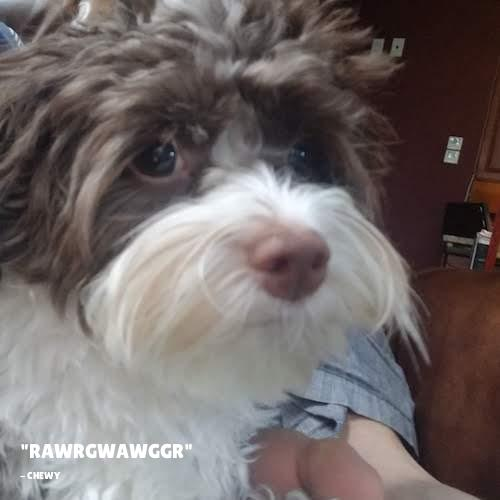
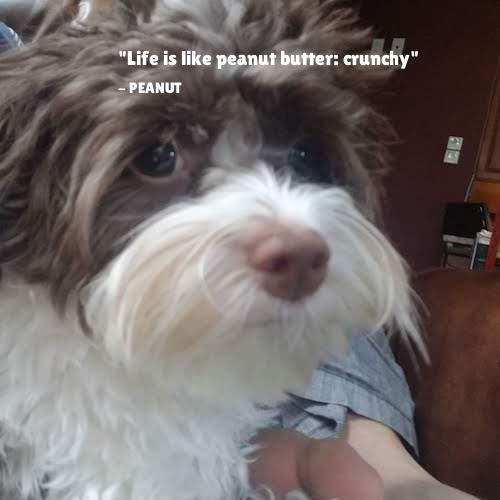
Error handling kind of working

Changed region(s): [[0.24, 0.09, 0.84, 0.21], [0.03, 0.87, 0.39, 0.96]]

diff --git a/src/templates/meme_error.html b/src/templates/meme_error.html
@@ -1,0 +1,12 @@
+<!DOCTYPE html>
+<html lang="en">
+<head>
+    <meta charset="UTF-8">
+    <title>Meme Error</title>
+</head>
+<body>
+    <h1>Invalid image file path, please try again</h1>
+    <a class="btn btn-outline-primary" href="{{url_for('meme_form')}}">Creator</a>
+
+</body>
+</html>

diff --git a/src/app.py b/src/app.py
@@ -1,13 +1,141 @@
-from MemeEngine.meme_engine import MemeEngine
-from QuoteEngine.Ingestor import Ingestor
-from flask import Flask, render_template, abort, request
+# from flask import Flask, render_template, abort, request, flash
+# import random
+# import os
+# import tempfile
+# import sys
+# import requests
+# sys.path.append(os.path.abspath(os.path.join(os.path.dirname(__file__), "..")))
+# from MemeEngine.meme_engine import MemeEngine
+# from QuoteEngine.Ingestor import Ingestor
+
+# app = Flask(__name__)
+# meme = MemeEngine('./static')
+
+
+# def setup():
+#     """
+#     Initialize the Flask application and configure its routes and settings.
+
+#     Returns:
+#         Flask: A new Flask application instance.
+#     """
+
+#     quote_files = ['./_data/DogQuotes/DogQuotesTXT.txt',
+#                    './_data/DogQuotes/DogQuotesDOCX.docx',
+#                    './_data/DogQuotes/DogQuotesPDF.pdf',
+#                    './_data/DogQuotes/DogQuotesCSV.csv',
+#                    ]
+
+#     # Use the Ingestor class to parse all files in the quote_files variable
+#     quotes = []
+#     for quote_file in quote_files:
+#         parsed_quotes = Ingestor.parse(quote_file)
+#         print(f"Parsed {len(parsed_quotes)} quotes from {quote_file}")
+#         if parsed_quotes is not None:
+#             quotes.extend(parsed_quotes)
+
+#     images_path = "./_data/photos/dog/"
+
+#     # Use the pythons standard library os class to find all images within the
+#     # images images_path directory
+#     imgs = []
+#     for root, dirs, files in os.walk(images_path):
+#         for file in files:
+#             if file.endswith(".jpg") or file.endswith(".png"):
+#                 imgs.append(os.path.join(root, file))
+
+#     print(f"Found {len(imgs)} image files in {images_path}")
+#     return quotes, imgs
+
+
+# quotes, imgs = setup()
+
+
+# @app.route('/')
+# def meme_rand():
+#     """
+#     Generate a random meme and display it on the web page.
+
+#     Returns:
+#         str: The HTML content to display on the web page.
+#     """
+
+#     # Select a random image and quote
+#     img = random.choice(imgs)
+#     quote = random.choice(quotes)
+
+#     path = meme.make_meme(img, quote.body, quote.author)
+#     return render_template('meme.html', path=path)
+
+
+# @app.route('/create', methods=['GET'])
+# def meme_form():
+#     """
+#     Display a web form where the user can input the quote and
+#     image for the meme.
+
+#     Returns:
+#         str: The HTML content to display on the web page.
+#     """
+#     return render_template('meme_form.html')
+
+
+
+# @app.route('/create', methods=['POST'])
+# def meme_post():
+#     """
+#     Generate a meme using the data from the web form and
+#     display it on the web page.
+
+#     The web form should have two input fields, one for the body of the quote
+#     and another for the author of the quote.
+#     The form should also have a file input field
+#     for selecting an image file to use as the background of the meme.
+
+#     Returns:
+#         str: The HTML content to display on the web page. If there is
+#         an error generating the meme, the error message
+#         is displayed instead of the meme.
+#     """
+
+#     try:
+#         # 1. Use requests to save the image from the image_url form
+#         # param to a temp local file.
+#         image_url = request.form['image_url']
+#         response = requests.get(image_url)
+#         img_file = tempfile.NamedTemporaryFile(delete=False)
+#         img_file.write(response.content)
+#         img_file.close()
+
+#         # 2. Use the meme object to generate a meme using this temp file and
+#         # the body and author form parameters.
+#         body = request.form['body']
+#         author = request.form['author']
+#         path = meme.make_meme(img_file.name, body, author)
+
+#         # 3. Remove the temporary saved image.
+#         os.remove(img_file.name)
+
+#         return render_template('meme.html', path=path)
+
+#     except requests.exceptions.ConnectionError:
+#         flash('Invalid URL')
+#         return render_template('meme_form.html')
+
+#     except ValueError as error:
+#         flash(f'Error: {error}')
+#         return render_template('meme_form.html')
+
+
+from flask import Flask, render_template, abort, request, flash
 import random
 import os
 import tempfile
 import sys
 import requests
 sys.path.append(os.path.abspath(os.path.join(os.path.dirname(__file__), "..")))
-
+from MemeEngine.meme_engine import MemeEngine
+from QuoteEngine.Ingestor import Ingestor
 
 app = Flask(__name__)
 meme = MemeEngine('./static')
@@ -80,7 +208,6 @@ def meme_form():
     """
     return render_template('meme_form.html')
 
-
 @app.route('/create', methods=['POST'])
 def meme_post():
     """
@@ -98,24 +225,33 @@ def meme_post():
         is displayed instead of the meme.
     """
 
-    # 1. Use requests to save the image from the image_url form param to a
-    # temp local file.
-    image_url = request.form['image_url']
-    response = requests.get(image_url)
-    img_file = tempfile.NamedTemporaryFile(delete=False)
-    img_file.write(response.content)
-    img_file.close()
+    try:
+        # 1. Use requests to save the image from the image_url form
+        # param to a temp local file.
+        image_url = request.form['image_url']
+        response = requests.get(image_url)
+        img_file = tempfile.NamedTemporaryFile(delete=False)
+        img_file.write(response.content)
+        img_file.close()
 
-    # 2. Use the meme object to generate a meme using this temp file and the
-    # body and author form parameters.
-    body = request.form['body']
-    author = request.form['author']
-    path = meme.make_meme(img_file.name, body, author)
+        # 2. Use the meme object to generate a meme using this temp file and
+        # the body and author form parameters.
+        body = request.form['body']
+        author = request.form['author']
+        path = meme.make_meme(img_file.name, body, author)
 
-    # 3. Remove the temporary saved image.
-    os.remove(img_file.name)
+        # 3. Remove the temporary saved image.
+        os.remove(img_file.name)
 
-    return render_template('meme.html', path=path)
+        return render_template('meme.html', path=path)
+
+    except requests.exceptions.ConnectionError:
+        error = 'Invalid URL'
+        return render_template('meme_error.html', error=error)
+
+    except ValueError as error:
+        return render_template('meme_error.html', error=error)
+
 
 
 if __name__ == "__main__":

diff --git a/MemeEngine/meme_engine.py b/MemeEngine/meme_engine.py
@@ -1,6 +1,9 @@
 from PIL import Image, ImageDraw, ImageFont
+from flask import render_template
+from pathlib import Path
 import os
 import sys
+import random
 sys.path.append('.')
 
 
@@ -41,7 +44,8 @@ class MemeEngine:
         try:
             image = Image.open(img_path)
         except Exception as e:
-            raise Exception(f"Error loading image {img_path}: {e}")
+            return render_template('meme_error.html')
+            # raise Exception(f"Error loading image {img_path}: {e}")
 
         # Resize the image while maintaining the aspect ratio
         w, h = image.size
@@ -57,16 +61,22 @@ class MemeEngine:
         author = author.upper()
         text_width, text_height = draw.textsize(text, font)
         author_font = ImageFont.truetype('./fonts/LilitaOne-Regular.ttf',
-                                         size=10, encoding="unic")
+                                         size=15, encoding="unic")
         author_width, author_height = draw.textsize(author, author_font)
-        x = 20
-        y = height - text_height - author_height - 30
+
+        # Randomly position the text on the image
+        x = random.randint(0, width - text_width - author_width)
+        y = random.randint(0, height - text_height - author_height)
+
+        # Draw the text on the image
         draw.text((x, y), text, font=font, fill='white')
         draw.text((x, y + text_height + 10), '- ' + author,
                   font=author_font, fill='white')
 
-        # Save the new image to disk
-        output_path = os.path.join(self.output_dir, os.path.basename(img_path))
+        # # Save the new image to disk
+        output_path = os.path.join(self.output_dir,
+                                   os.path.basename(img_path))
+        print(f"Output path: {output_path}")
         image.save(output_path)
 
         return output_path

diff --git a/src/meme.py b/src/meme.py
@@ -3,11 +3,11 @@ import os
 import random
 import sys
 import argparse
-
 sys.path.append(os.path.abspath(os.path.join(os.path.dirname(__file__), "..")))
 from MemeEngine.meme_engine import MemeEngine
 from QuoteEngine.QuoteModel import QuoteModel
 from QuoteEngine.Ingestor import Ingestor
+
 
 def generate_meme(path=None, body=None, author=None):
     """ Generate a meme given an path and a quote """
